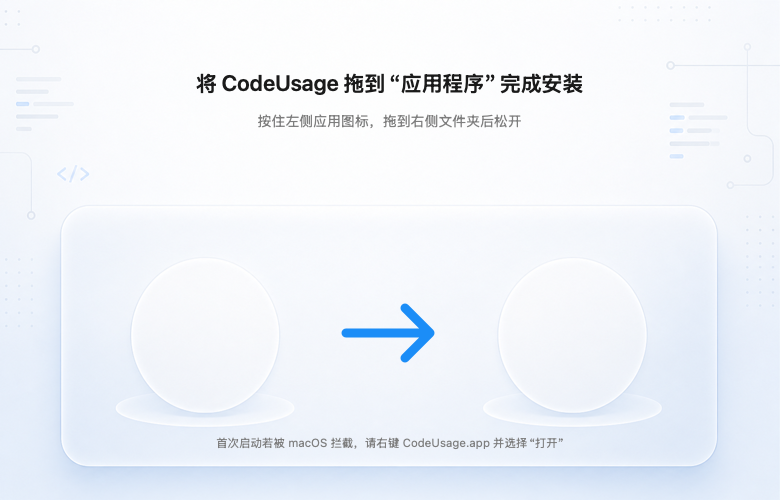
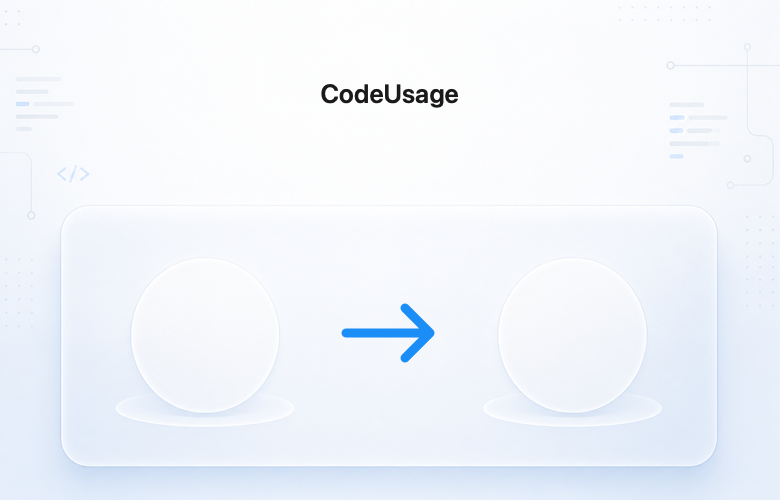
fix: make the DMG installer language neutral

Changed region(s): [[0.2462, 0.15, 0.7692, 0.27], [0.2769, 0.87, 0.7385, 0.9]]

diff --git a/Scripts/generate_dmg_background.swift b/Scripts/generate_dmg_background.swift
@@ -64,22 +64,15 @@ if let baseURL, let base = NSImage(contentsOf: baseURL) {
 let titleStyle = NSMutableParagraphStyle()
 titleStyle.alignment = .center
 
-let title = "将 CodeUsage 拖到“应用程序”完成安装"
+// A DMG background is a static bitmap and cannot switch with the viewer's
+// preferred language. Keep it language-neutral so the same signed artifact is
+// appropriate in every locale.
+let title = "CodeUsage"
 title.draw(
-    in: NSRect(x: 40, y: 394, width: 700, height: 36),
+    in: NSRect(x: 40, y: 382, width: 700, height: 40),
     withAttributes: [
-        .font: NSFont.systemFont(ofSize: 22, weight: .semibold),
+        .font: NSFont.systemFont(ofSize: 26, weight: .semibold),
         .foregroundColor: NSColor(calibratedWhite: 0.08, alpha: 1),
-        .paragraphStyle: titleStyle
-    ]
-)
-
-let subtitle = "按住左侧应用图标，拖到右侧文件夹后松开"
-subtitle.draw(
-    in: NSRect(x: 40, y: 360, width: 700, height: 28),
-    withAttributes: [
-        .font: NSFont.systemFont(ofSize: 14, weight: .regular),
-        .foregroundColor: NSColor(calibratedWhite: 0.42, alpha: 1),
         .paragraphStyle: titleStyle
     ]
 )
@@ -99,16 +92,6 @@ arrow.move(to: NSPoint(x: 405, y: 192))
 arrow.line(to: NSPoint(x: 430, y: 167))
 arrow.line(to: NSPoint(x: 405, y: 142))
 arrow.stroke()
-
-let footnote = "首次启动若被 macOS 拦截，请右键 CodeUsage.app 并选择“打开”"
-footnote.draw(
-    in: NSRect(x: 40, y: 42, width: 700, height: 22),
-    withAttributes: [
-        .font: NSFont.systemFont(ofSize: 11.5, weight: .regular),
-        .foregroundColor: NSColor(calibratedWhite: 0.42, alpha: 1),
-        .paragraphStyle: titleStyle
-    ]
-)
 
 context.flushGraphics()
 NSGraphicsContext.restoreGraphicsState()

diff --git a/README.md b/README.md
@@ -139,7 +139,7 @@ Build a Universal app and ZIP for both Apple Silicon and Intel:
 ./Scripts/package_universal.sh
 ```
 
-Package `dist/CodeUsage.app` as a Chinese drag-to-install DMG written directly to `dist/`:
+Package `dist/CodeUsage.app` as a language-neutral drag-to-install DMG written directly to `dist/`:
 
 ```bash
 ./Scripts/package_dmg.sh

diff --git a/README.zh-CN.md b/README.zh-CN.md
@@ -139,7 +139,7 @@ open dist/CodeUsage.app
 ./Scripts/package_universal.sh
 ```
 
-将 `dist/CodeUsage.app` 打包为带拖拽安装界面的中文 DMG，并直接写入 `dist/`：
+将 `dist/CodeUsage.app` 打包为带语言中立拖拽安装界面的 DMG，并直接写入 `dist/`：
 
 ```bash
 ./Scripts/package_dmg.sh
